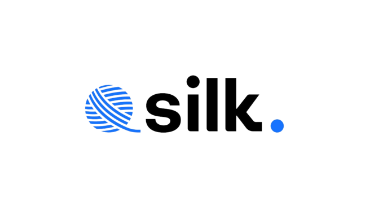
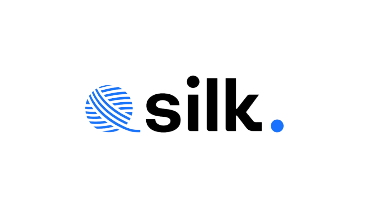
Update 4 files

diff --git a/src/App.tsx b/src/App.tsx
@@ -9,10 +9,6 @@ import { Switch } from "antd";
 import grouped from "./db/grouped_findings.json";
 import logo from "./assets/silk.png";
 
-/**
- * - remove underscores and make column headers nicer to look at
- */
-
 type DisplayMode = "light" | "dark";
 
 /**
@@ -70,7 +66,12 @@ export default function App() {
       <Row justify={"space-between"}>
         <img
           src={logo}
-          style={{ height: "50px", width: "100px", top: "25px" }}
+          style={{
+            height: "50px",
+            width: "100px",
+            top: "25px",
+            background: "white",
+          }}
         />
         <Typography.Title level={5} style={{ margin: 0, paddingTop: 10 }}>
           Grouped Findings Dashboard

diff --git a/src/styles.css b/src/styles.css
@@ -11,7 +11,7 @@ body {
   :not(button):not(.ant-switch-inner):not(.ant-switch-handle):not(a):not(
     .ant-progress-inner
   ) {
-  background-color: #151515;
+  background-color: #252525;
   color: white;
 }
 
